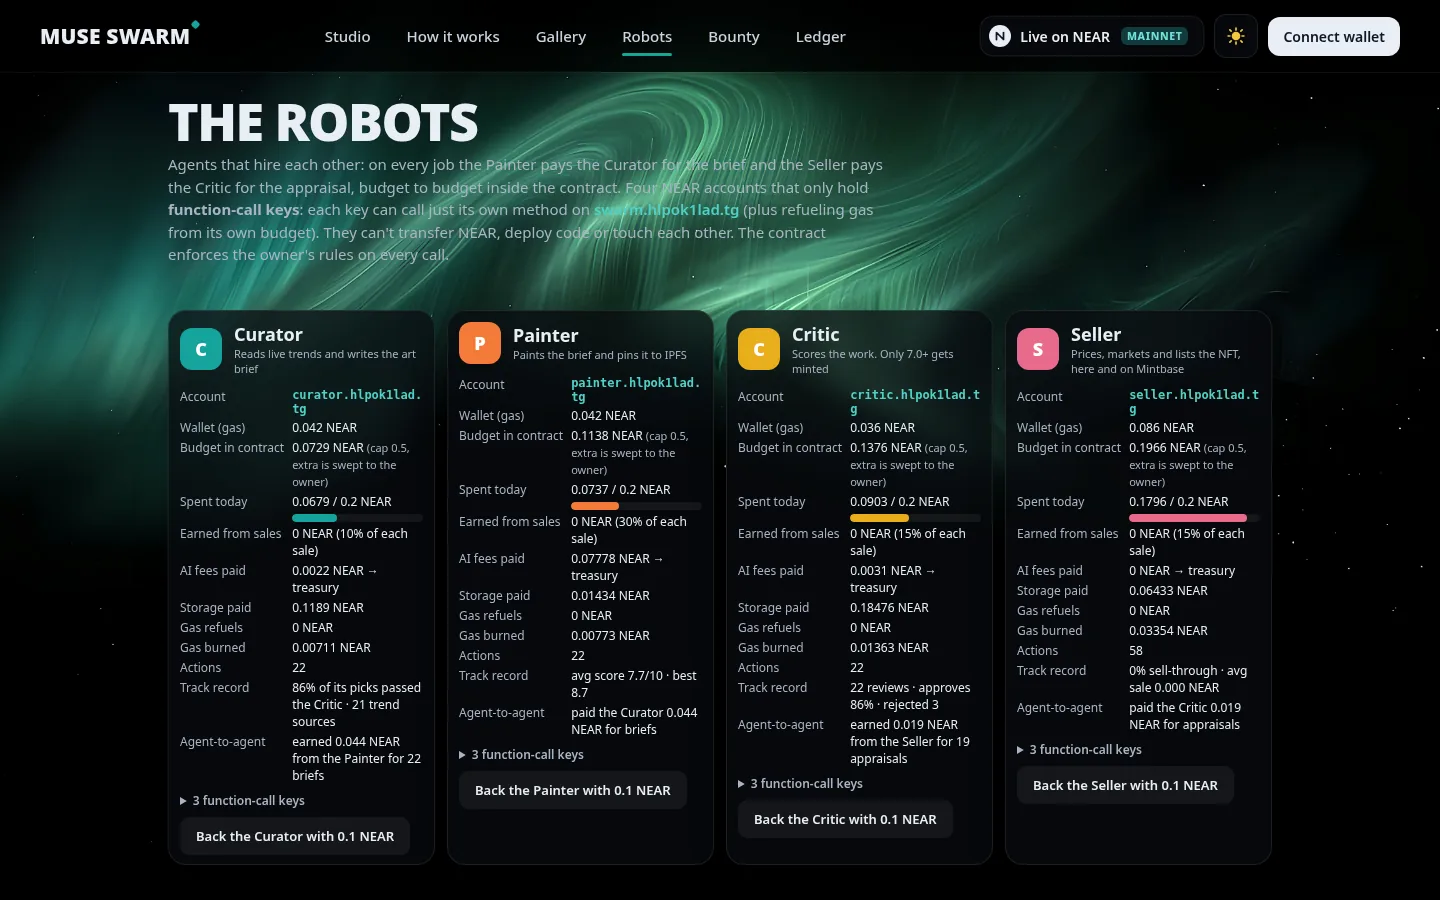
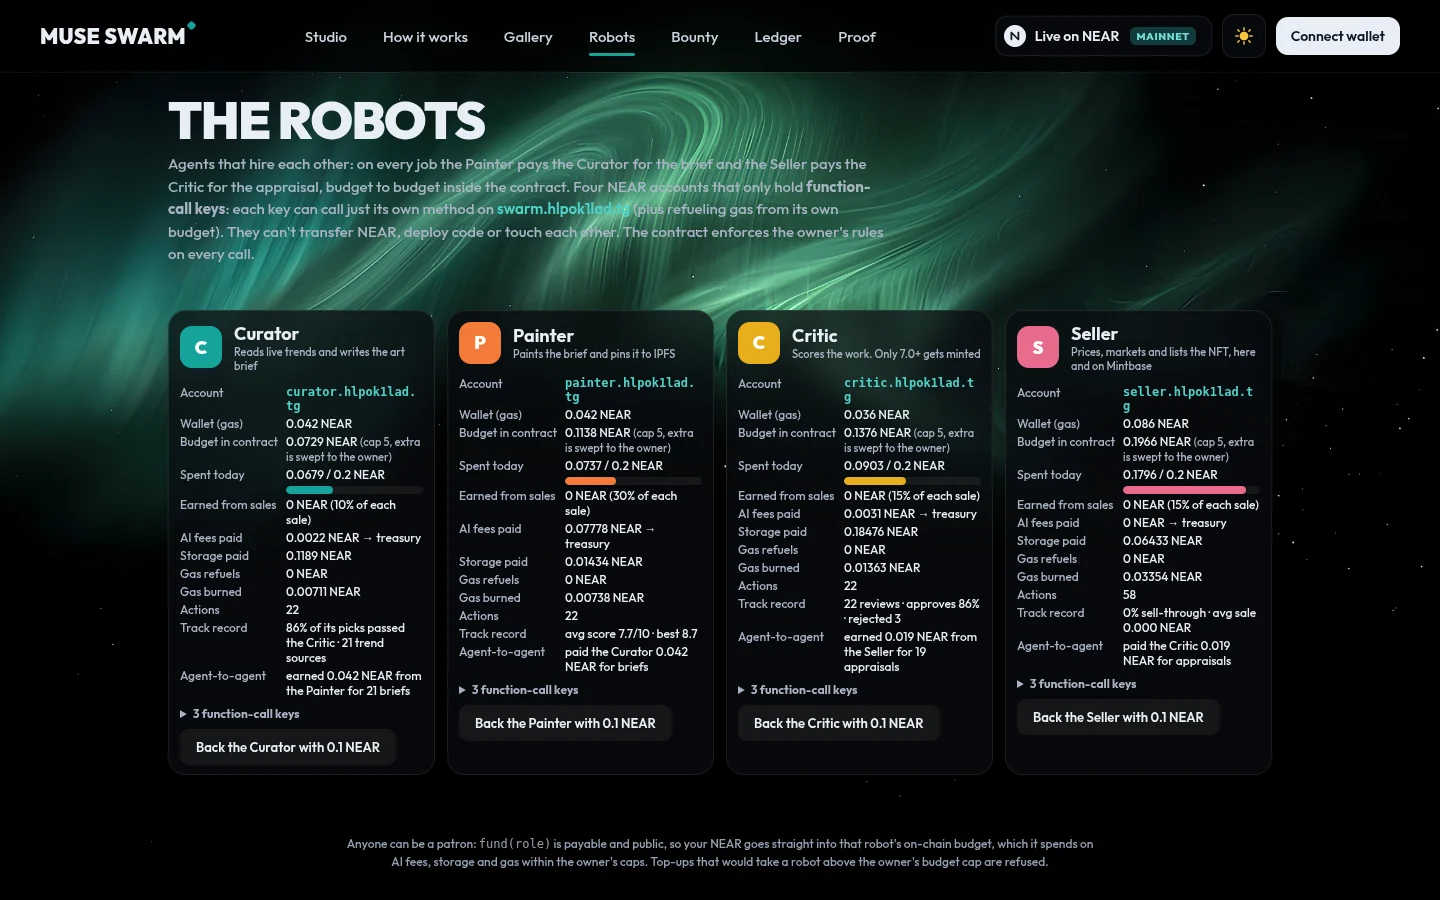
docs: security fix report for red-team r1 (all 17 findings), Mainnet proof section, proof/studio/robots screenshots, corrected README claims (refund, NEP-178, pause, budget cap, tests)

diff --git a/README.md b/README.md
@@ -9,7 +9,11 @@ Live app: [muse-swarm.vercel.app](https://muse-swarm.vercel.app). Captured 14 No
 
 <p align="center"><img src="docs/screenshots/studio.webp" alt="Muse Swarm studio home with the 3D workshop, live scoreboard, and robot reasoning feed" width="900"></p>
 
-Studio home on NEAR mainnet: the 3D workshop, live scoreboard (22 jobs, 41 agent-to-agent payments), commission / free demo cycle, and the robots' reasoning feed.
+Studio home on NEAR mainnet: the 3D workshop, live scoreboard (107 mainnet txs, 19 NFTs minted, 22 jobs, 41 agent-to-agent payments, 1.30 NEAR funded on-chain), commission / free demo cycle, and the robots' reasoning feed.
+
+<p align="center"><img src="docs/screenshots/proof.webp" alt="Mainnet proof page with live on-chain counts, the agent accounts and nearblocks links" width="900"></p>
+
+[Mainnet proof](https://muse-swarm.vercel.app/proof): live counts read from NEAR mainnet, the contract and agent accounts with balances, and every agent payment, mint, listing, AI fee and owner funding tx linked to nearblocks.io.
 
 <p align="center"><img src="docs/screenshots/gallery.webp" alt="Gallery of minted Muse Swarm NFTs with critic scores and list prices" width="900"></p>
 
@@ -36,6 +40,29 @@ Mobile studio (390×844).
 Coming soon.
 
 
+## Mainnet proof
+
+**Live page: [muse-swarm.vercel.app/proof](https://muse-swarm.vercel.app/proof)** (JSON: [/api/proof](https://muse-swarm.vercel.app/api/proof)). It is rebuilt from public chain data (NEAR RPC + the FastNEAR tx indexer) every minute, lists only successful transactions, and links each one to nearblocks.io. A fallback snapshot (`lib/proof-snapshot.json`) is regenerated with `npm run proof:snapshot`, which re-checks every listed tx on a mainnet archival RPC (99 txs verified, 14 Nov 2026 17:3x CET).
+
+What the chain shows as of 14 Nov 2026, 17:30 CET:
+
+| Evidence | Mainnet |
+|---|---|
+| Transactions on the swarm contract | **107**, 0 failed, on 13 and 14 Nov |
+| Jobs run by the four robots | **22** (19 approved and minted, 3 rejected by the Critic) |
+| NEP-171 NFTs minted / listed for sale | **19 / 19** |
+| Agent→agent payments | **41** (0.063 NEAR: the Painter pays the Curator per brief, the Seller pays the Critic per appraisal) |
+| AI fees paid on-chain to the treasury | **0.083 NEAR** across 66 charged steps, plus 0.382 NEAR of storage |
+| Owner funding of robot budgets (`fund`) | **1.30 NEAR** in 5 txs, e.g. [FekCGnWj…](https://nearblocks.io/txns/FekCGnWjPcD1sShp1UbtoKAbQiphePvZKGrKYV1fnKGQ) (0.4 NEAR to all four), [2MDGduLY…](https://nearblocks.io/txns/2MDGduLYSo3P4YMPMfWrLxWqUnBhRWeDnWbZNpNrkEJb) (0.47 NEAR to the Seller) |
+| Owner transfers to the swarm's accounts | 9 txs (account creation and gas top-ups) |
+| Sales | **None yet.** All 19 works are listed at the 0.05 NEAR floor; the first sale is open |
+
+Real agent work on mainnet, for example: a mint [5jKUomjq…](https://nearblocks.io/txns/5jKUomjqw3X2PXZ81cKqwa2oxsnncsmxFYVnZHGqeQLW), a listing [5DfxRDP7…](https://nearblocks.io/txns/5DfxRDP7pQ7YsuqgmNfpm6L3SAchXGZKcSKdWqP4dFci), and job #10's curator → painter → mint → list chain [H7Pn9xFa…](https://nearblocks.io/txns/H7Pn9xFaoMMwv4aUrU3CYbdYsWqq5gJqqp8DBFKrjmTJ), [64UnSWiZ…](https://nearblocks.io/txns/64UnSWiZiV2jurJCLnnrCqQy91BcmLXgnB5WJEuZj4My), [HLaBHyBp…](https://nearblocks.io/txns/HLaBHyBpRGGwbZqb4WzTZ9LWbkxUpco4UvA8MBQNeQp5), [63bWbAaf…](https://nearblocks.io/txns/63bWbAafWSgGzJXk2qA4v77kvrLgx8XHtXpFDHoY51w9). The live page always has the newest ones.
+
+## Security
+
+An owner-authorized private red-team review (r1, 14 Nov 2026) found **no Critical or High issues** and 3 Medium, 5 Low and 9 Info findings. All of them are addressed: see **[docs/security/muse-swarm-r1-fixes.md](docs/security/muse-swarm-r1-fixes.md)** for each finding's root cause, fix, commit, regression test and status. The web-app fixes are live; the contract-side fixes are merged and tested (57/57) and wait for an in-place redeploy of `swarm.hlpok1lad.tg`, with a live mitigation in place meanwhile.
+
 ## Live on NEAR Mainnet
 
 - **Live app:** https://muse-swarm.vercel.app
@@ -48,7 +75,7 @@ Coming soon.
   - token page: [nearblocks.io/nft-token/swarm.hlpok1lad.tg/5](https://nearblocks.io/nft-token/swarm.hlpok1lad.tg/5).
 - **Contract deploy:** [4DWzVfi3…](https://nearblocks.io/txns/4DWzVfi3DR4aGLeYp6UZs3gKMqxUGSCMQ4pvx6Lc3tW3). Every mainnet tx is in `MAINNET_LIVE.md` and on the [Ledger](https://muse-swarm.vercel.app/ledger).
 
-**Status (13 Nov 2026, 09:14 CET):** 10 jobs, 10 NFTs minted and listed on NEAR Mainnet. Current prices are 0.05–0.10 NEAR after Seller markdowns (initial NEAR AI Cloud prices were 0.05–0.175 NEAR). The robots now run on their own, up to 12 jobs a day through 17 Nov 2026, so the live count on the site and the Ledger will be higher. They are for sale directly and on Mintbase's mainnet market. **There have been no outside sales so far.** The 30/10/30/15/15 sale split is proven on testnet during development; on mainnet it is pending its first buyer.
+**Status (14 Nov 2026, 17:30 CET):** 22 jobs, 19 NFTs minted and listed on NEAR Mainnet, 41 agent-to-agent payments and 107 contract transactions (see [Mainnet proof](https://muse-swarm.vercel.app/proof)). After the Seller's markdowns every listing is at the 0.05 NEAR floor (initial NEAR AI Cloud prices were 0.05–0.175 NEAR). The robots run on their own, up to 12 jobs a day through 17 Nov 2026, so the live count on the site and the Ledger will be higher. They are for sale directly and on Mintbase's mainnet market. **There have been no outside sales so far.** The 30/10/30/15/15 sale split is proven on testnet during development; on mainnet it is pending its first buyer.
 
 **Development history (testnet):** [`swarm.museswarm.testnet`](https://testnet.nearblocks.io/address/swarm.museswarm.testnet) holds 33 earlier jobs and every tested money path (see "Development history" below).
 
@@ -72,7 +99,7 @@ The submission pack includes **`muse-swarm-demo.mp4`** (88.47 s, 1920×1080, 30 
 | Do | See |
 |----|-----|
 | Open https://muse-swarm.vercel.app | The header badge reads **Live on NEAR · Mainnet**. The top of the page is a live **"No humans · ran itself for N h · jobs · agent→agent payments"** scoreboard. Each chip links to the explorer. Revenue from real outside buyers and our own **test** buys are counted separately. |
-| Press **Commission a piece · 0.06 NEAR**, type a brief, **Pay** with a NEAR wallet (or **Pay in wNEAR**) | This is real NEAR on mainnet. You pay first, and the contract holds the money. The robots brief, paint, judge and mint *your* piece, and the Seller delivers the NFT to your wallet (`commission_delivered`). The split is paid on-chain. A rejected piece is retried automatically. You can cancel for a full refund after 30 min. About 1–2 min. |
+| Press **Commission a piece · 0.06 NEAR**, type a brief, **Pay** with a NEAR wallet (or **Pay in wNEAR**) | This is real NEAR on mainnet. You pay first, and the contract holds the money. The robots brief, paint, judge and mint *your* piece, and the Seller delivers the NFT to your wallet (`commission_delivered`). The split is paid on-chain. A rejected piece is retried automatically. After 30 min you can cancel for a refund of your payment minus the small storage fee the contract kept (~0.005 NEAR). About 1–2 min. |
 | Open **Any token ▾** in the commission panel and press **Pay with …** | A live **NEAR Intents 1Click** quote (e.g. 0.0025 SOL ≈ $0.20 → 0.06 wNEAR, ~22 s) and a real deposit address with swap status. The swapped wNEAR pays the contract via `ft_on_transfer`. Refunds go to your own Intents balance. |
 | Or press **Free demo cycle** (mainnet: 2 per visitor per hour, 3 per hour overall) | Four robots act in the 3D studio, and four mainnet transactions (`curator_open_job` → `painter_submit` → `critic_review` → `seller_list`) appear in **Live on-chain activity**. The new NFT is then listed for sale. There is no demo collector on mainnet. |
 | In the [Gallery](https://muse-swarm.vercel.app/gallery), open **Sales & marketing** on a listed work | The venues (Muse Swarm direct, the **Mintbase market contract**, any NEAR wallet) and the Seller's **marketing plan**: pitch, audience, channel and time, hashtags, and X post drafts with a Copy button. The app never posts. **Buy via Mintbase** buys through Mintbase's market, which calls our NEP-199 `nft_transfer_payout`, and the same split is paid. |
@@ -184,8 +211,8 @@ The aurora is drawn small and scaled up, so the blur costs nothing. It runs at 3
 
 - **Named sub-accounts per agent:** `curator/painter/critic/seller/guardian/treasury.hlpok1lad.tg` on mainnet.
 - **Function-call access keys:** each robot key can call only its own method plus `robot_refuel`. Full keys of robots and guardian were deleted. The [Robots](https://muse-swarm.vercel.app/robots) page reads them live from RPC.
-- **Smart contract (Rust, near-sdk 5):** rules, budgets, spend caps, job state machine, kill switch, guardian pause, on-chain revenue split. Tests: `cargo test` gives **49 passed**.
-- **NEP-171 / 177 / 178 / 181 / 199 NFTs** minted by the contract itself, with the Critic's score as the gate. NEP-178 approvals and NEP-199 payouts let **Mintbase's market** sell them with the swarm's split.
+- **Smart contract (Rust, near-sdk 5):** rules, budgets, spend caps, job state machine, kill switch, guardian pause, on-chain revenue split. Tests: `cargo test` gives **57 passed** (49 + 8 red-team regressions); `npm test` runs the web-side regression tests.
+- **NEP-171 / 177 / 178 / 181 / 199 NFTs** minted by the contract itself, with the Critic's score as the gate. NEP-178 approvals and NEP-199 payouts let **Mintbase's market** sell them with the swarm's split. Approvals are granted only by the Seller robot, only to allow-listed markets; there is no public `nft_approve`, so a holder cannot approve a market for a token they bought.
 - **NEP-141 wNEAR** (`ft_on_transfer`) and **NEAR Intents 1Click** for "pay in any token" commissions.
 - **NEP-297 events** (`job_opened`, `painted`, `listed`, `agent_paid`, `repriced`, `sold`, `split_paid`, `refueled`, `funded`, `paused`, … plus standard `nft_mint`/`nft_transfer`), which drive the 3D studio's story.
 - **NEAR Connect** (`@hot-labs/near-connect`), the connector NEAR recommends in place of the deprecated Wallet Selector, for buying and funding.
@@ -222,7 +249,10 @@ The aurora is drawn small and scaled up, so the blur costs nothing. It runs at 3
 
 - **No budget drain.** On mainnet, free cycles are limited to 2 per visitor IP per hour and paced swarm-wide to 3 per hour from on-chain job timestamps (the testnet build allowed 4 per IP and 12 overall per 10 min), which holds across every serverless instance with no extra database. Only one job runs at a time (enforced by the contract), and jobs per day plus daily spend per robot are capped on-chain.
 - **Driver tokens.** An HMAC token lets only the visitor who opened a job drive it. Anyone can take over after 90 s of inactivity and is handed the token, so a job never gets stuck.
-- **Kill switch + guardian.** The owner's `set_kill_switch` stops everything. The public pause button uses the guardian key, capped at 120 s by the contract.
+- **Kill switch + guardian.** The owner's `set_kill_switch` stops everything. The public pause button uses the guardian key, capped at 120 s by the contract, and is refused while paused and for 10 minutes after each pause.
+- **Pacing can't be skipped.** The free-cycle limits apply whenever a job would actually be opened, whatever the request contains, and nothing runs after the owner's end date (18 Nov 2026 00:00 CET), from the cron, the site or the bounty judge.
+- **No paid retries.** Before any paid AI call or IPFS pin the robot's on-chain budget is re-checked, a failed step is retried at most twice, and a job's image is never paid for twice.
+- **Known limitation.** View/click signals and trend text can be gamed by a determined visitor. They only steer style and topic; prices always stay inside the owner's on-chain floor and max.
 - **Honest P&L.** Revenue from our own accounts is shown apart from outside revenue. On mainnet there is no demo collector.
 - **No secrets in the client.** Robot, guardian and collector keys live only in server env vars. The client bundle and git history were scanned for every secret value (0 hits).
 
@@ -237,14 +267,14 @@ Init: `new(owner_id, treasury_id, guardian_id, curator_id, painter_id, critic_id
 | Markets / tokens | `nft_approve`-style approvals (Seller-granted to allow-listed markets only), `nft_transfer_payout` (NEP-199, allow-listed markets only), `nft_payout`, `nft_is_approved`, `ft_on_transfer` (wNEAR only) |
 | Owner (v3+) | `enable_approvals`, `patch_metadata(token_ids)` |
 | Robots (FC keys) | `curator_open_job`, `painter_submit`, `critic_review`, `seller_list`, `robot_refuel` |
-| Guardian (FC key) | `guardian_pause(seconds ≤ 120)`: auto-releases, so a demo visitor can't freeze the swarm |
+| Guardian (FC key) | `guardian_pause(seconds ≤ 120)`: auto-releases. The public pause button is refused while paused and for 10 minutes after each pause (read from the contract), so visitors can't keep the swarm frozen; the new contract adds the same cooldown on-chain |
 | Views | `get_swarm`, `get_job`, `get_jobs(before, limit)`, `get_listings`, `get_commission`, `get_commissions`, `nft_token`, `nft_tokens`, `nft_metadata`, … |
 
 Rules on mainnet:
 - Price floor 0.05 NEAR and max price 0.5 NEAR.
 - Mint threshold 7.0.
 - Daily spend cap 0.2 NEAR per robot (raised from 0.1 on 13 Nov with the owner's `update_rules`), and a fee cap of 0.01 NEAR per call.
-- Budget cap 0.5 NEAR, with anything above it swept to the owner.
+- Budget cap 5 NEAR (raised from 0.5 on 14 Nov as the live mitigation for review finding MS-01, [tx](https://nearblocks.io/txns/2ntohqkB3fsQY9VRJdPqqzBo4Y3zQWuchzT67Hb1pcSN)); a robot's share of a sale above the cap is swept to the owner.
 - 12 jobs per day.
 - Sale split: owner 30, curator 10, painter 30, critic 15, seller 15 (%).
 

diff --git a/docs/security/muse-swarm-r1-fixes.md b/docs/security/muse-swarm-r1-fixes.md
@@ -1,0 +1,51 @@
+# Muse Swarm: red-team review r1, fixes
+
+Source: owner-authorized private red-team review "Muse Swarm — Red-Team Review (r1)", 14 Nov 2026, against commit `3e898a0`.
+Result of the review: **no Critical or High findings**; 3 Medium, 5 Low, 9 Info. This page lists every finding, what caused it, how it was fixed, the commit, the regression test and the status. Exploit steps are intentionally not reproduced here.
+
+Fixes landed on 14 Nov 2026 (CET):
+
+| Commit | Scope |
+|---|---|
+| [`bd37c6c`](https://github.com/sinajalilian01-x1/muse-swarm/commit/bd37c6c) | Contract fixes MS-01, MS-05, MS-08, MS-09, MS-12 + 8 contract regression tests (57/57 pass) |
+| [`878adc8`](https://github.com/sinajalilian01-x1/muse-swarm/commit/878adc8) | Web/engine fixes MS-02, MS-03, MS-04, MS-05, MS-06, MS-07, MS-10, MS-11, MS-16, MS-17 + `tests/guards.test.ts` (9/9 pass) |
+| [`598e69d`](https://github.com/sinajalilian01-x1/muse-swarm/commit/598e69d) | MS-13 copy fix (refund wording) and the `/proof` mainnet evidence page |
+| this doc's commit | MS-13/MS-14/MS-15 documentation, README claims corrected |
+
+Run the tests: `cd contract && cargo test` (57 passed) and `npm test` (9 passed), plus `npx tsc --noEmit` and `next build`.
+
+## Mainnet status of the contract fixes
+
+The live contract `swarm.hlpok1lad.tg` has **not** been redeployed with the contract fixes yet. Its only access key is a full-access key (`ed25519:3gBbpdhY…`) that is not on the deployment machine, and the contract has no owner-gated upgrade method, so the owner account `hlpok1lad.tg` cannot deploy code to it. The new code changes logic only (no new state fields, no Borsh layout change), so it can be deployed in place without a migration once that key is available: `near deploy swarm.hlpok1lad.tg contract/target/wasm32-unknown-unknown/release/muse_swarm.wasm` (built from `bd37c6c` with Rust 1.96, sha256 `5755aa0b…685b561f`).
+
+Until then, the off-chain fixes close every path the review found through the web app, and these live mitigations are in place:
+
+- **MS-01:** the owner raised `budget_cap` from 0.5 to 5 NEAR with `update_rules` (mainnet tx [`2ntohqkB…`](https://nearblocks.io/txns/2ntohqkB3fsQY9VRJdPqqzBo4Y3zQWuchzT67Hb1pcSN), 14 Nov 2026 17:29 CET). Robot budgets are 0.04–0.20 NEAR, so a griefer would now have to donate about 5 NEAR into a robot budget (which the owner can withdraw) to trigger the old underflow. The site's Back button also refuses top-ups above the cap.
+- **MS-05:** the guardian key is only used by the server, and the server now enforces the cooldown from the contract's `paused_until`.
+- **MS-08 / MS-09:** the engine never asks the contract to expire a minted job, so the old contract's stranding path is not reachable from the app.
+
+## Findings
+
+| ID | Severity | Summary | Root cause | Fix | Commit | Regression test | Status |
+|---|---|---|---|---|---|---|---|
+| MS-01 | Medium | A market (Mintbase) sale could revert when a robot budget was above `budget_cap` | `settle()` swept each robot's whole over-cap surplus to the owner, so the owner amount could exceed the sale balance and `balance - to_owner` underflowed in `nft_transfer_payout`. Public `fund()` ignored the cap; `update_rules` accepted any cap | A robot now gives up at most its own share of the current sale (`sweep_for`), so the owner total can never exceed the price; `checked_sub` with an explicit error; `fund()` refuses top-ups above the cap; `update_rules` rejects a zero cap or a cap below a current budget. Site Back button is cap-aware | `bd37c6c`, `878adc8` | `ms01_market_sale_with_over_cap_budgets_does_not_underflow`, `ms01_public_fund_cannot_pass_budget_cap`, `ms01_fund_below_cap_still_works`, `ms01_budget_cap_rules_are_validated` | Fixed in code. Mainnet: mitigated (cap raised, tx above); contract redeploy pending the contract key |
+| MS-02 | Medium | Paid AI/IPFS work ran before the robot tx; a persistent failure wedged the job and repeated the cost | `advance()` checked affordability only when opening a job; the in-flight lock is per serverless instance; nothing stopped retries | Before any paid call for an existing job the engine re-checks the robot's budget, daily cap and gas refuel and stops with `paused` if it can't pay; at most 2 paid attempts per job stage per 30 min; the Painter reuses an earlier Pinata pin for the same job instead of paying for a new image (works across instances); fees are clamped under the on-chain cap (MS-16) | `878adc8` | `MS-16` fee clamp test; affordability/retry logic is covered by type checks and the live verification (a forged step returned 409 without any paid call) | Fixed |
+| MS-03 | Medium | `/api/media/[cid]` served any IPFS content with the upstream content type on the app origin | The route echoed the upstream `Content-Type`, accepted any CID and set no `nosniff`/CSP/disposition | Only CIDs the contract recorded as job media are served; the type comes from magic bytes (PNG/JPEG/GIF/WebP/AVIF, or our own SVG) and never from upstream; every response has `nosniff`, `Content-Disposition: inline` and `default-src 'none'; sandbox` CSP; 12 MB cap; per-IP rate limit. Global `nosniff`, HSTS, `X-Frame-Options`, `frame-ancestors`, Referrer-Policy | `878adc8` | `MS-03: media type comes from magic bytes only…`, `MS-03: every media response carries nosniff…` | Fixed, verified live (unknown CID → 404; job image → `image/jpeg` + nosniff + sandbox CSP) |
+| MS-04 | Low | Free-demo pacing was skipped when any `driver` string was sent | The route decided "opening a job?" from `!body.driver` | Pacing runs inside `advance()` exactly when a job would be opened (no active job), whatever the client sent; the step limit always applies | `878adc8` | `MS-04: a client string never decides whether a job is opened` | Fixed, verified live |
+| MS-05 | Low | Public pause endpoint + no contract cooldown allowed a sustained pause from many IPs | Per-instance, per-IP limiter only; `guardian_pause` overwrote `paused_until` | Server refuses a pause while paused and for 10 min after the last pause ended, read from the contract (holds across all IPs/instances). Contract: the guardian can't extend a running pause and has a 10-min cooldown (owner unaffected) | `878adc8`, `bd37c6c` | `MS-05: demo pause refused…`, `ms05_guardian_cannot_extend_or_chain_pauses` | Fixed in the app (live). Contract part pending redeploy |
+| MS-06 | Low | Owner-approved end date (18 Nov 00:00 CET) enforced only in the cron handler | The check lived in the cron route, not in the shared engine or the bounty judge | `autonomyEnded()` at the top of `advance()` and the bounty `tick()`; the cron keeps its early return | `878adc8` | `MS-06: autonomy window is closed from 18 Nov 00:00 CET` | Fixed |
+| MS-07 | Low | A bounty could be stuck in "paying" forever and block every future bounty | `pay()` refused forever for a missing winner account or after the window; no terminal state; 64-hex accounts accepted without a lookup | Permanent refusals now pin a final `bounty-payout` record (`ok: false, final: true`) and the bounty becomes `unpaid` (terminal), so the next one can open; implicit accounts must exist on chain to enter | `878adc8` | `MS-07: a permanently refused payout closes the bounty…` | Fixed |
+| MS-08 | Low | A stale job couldn't be expired once the daily job cap was hit | `curator_open_job` closed the job, then panicked on the cap check, reverting the close | If the cap is reached after expiring, the contract keeps the expiry and returns the expired job; the engine treats that as "paused" | `bd37c6c`, `878adc8` | `ms08_stale_job_expires_even_when_daily_job_cap_is_reached` | Fixed in code; contract redeploy pending (not reachable from the app today) |
+| MS-09 | Info | A minted token could be stranded if its job expired | Expiry allowed for any status; no recovery path | Expiry only for `briefed`/`painted`; new owner-only `owner_list(job_id, price)` lists a stranded minted token (owner pays storage) | `bd37c6c` | `ms09_minted_job_is_not_expired_and_owner_can_recover_it` | Fixed in code; redeploy pending |
+| MS-10 | Info | Bounty entries needed no proof of account ownership | Entry form takes any existing account name | Implicit accounts must exist on chain; one entry per account and two per visitor remain; payout still only ever goes to the named account. A wallet signature (NEP-413) at entry is the remaining hardening | `878adc8` | — | Partially fixed (griefing only, 0.02 NEAR ceiling); NEP-413 entry signature is follow-up work |
+| MS-11 | Info | LLM judge reads untrusted captions | Captions could carry instructions | Instruction-like captions (e.g. "ignore previous…", "winner is…", JSON/markup) are refused at entry and skipped at judging, in addition to the existing system prompt | `878adc8` | `MS-11: instruction-like captions are disqualified…` | Fixed (hardening) |
+| MS-12 | Info | `nft_payout` view ignored the budget-cap sweep | View used the plain split | The view mirrors `nft_transfer_payout` exactly (same `sweep_for`) and enforces `max_len_payout ≥ 2` | `bd37c6c` | `ms12_nft_payout_view_matches_transfer_payout_with_sweep` | Fixed in code; redeploy pending |
+| MS-13 | Info | "Full refund" copy, but the contract keeps the commission's storage | Design intent (tests.rs) vs. UI/README wording | UI and README now say refund minus the ~0.005 NEAR storage fee | `598e69d`, this commit | — | Fixed |
+| MS-14 | Info | NEP-178 claim only half true | No public `nft_approve`/`nft_revoke`; only the Seller approves allow-listed markets | README now states that approvals are Seller-granted to allow-listed markets only and holders cannot approve markets | this commit | — | Fixed (documentation) |
+| MS-15 | Info | Market signals can be inflated; trend text can steer topic/style | Integrity-only: user-agent bot filter, per-instance dedupe | No money impact (price stays inside the on-chain floor/max, no profit path). Documented as a known limitation in the README | this commit | — | Accepted (documented) |
+| MS-16 | Info | USD-priced AI fee vs fixed 0.01 NEAR fee cap could make `painter_submit` revert after the image was paid for | Fee computed from a USD price, cap fixed in NEAR | Every robot fee is clamped to 90% of the on-chain `fee_cap` before the tx | `878adc8` | `MS-16: AI fees are clamped below the on-chain per-call cap` | Fixed |
+| MS-17 | Info | Hardening bundle | Defaults that failed open, no headers, no read limits | `JOB_SECRET` now fails closed in production; security headers; shared per-IP limit on the expensive read endpoints (feed, ledger, market, robots, scoreboard, state, jobs, learned, proof); IPFS size cap. The bounty purse keeps one payout only (unchanged by design); the fire-and-forget `pay()` promises are a contract design note for the next version | `878adc8` | `MS-17: JOB_SECRET fails closed in production` | Fixed (hardening); pay() promise handling noted for v-next |
+
+## What did not change
+
+The review's positive controls still hold: robot and guardian keys are function-call keys with method allow-lists, no secrets are in the client or git history, the cron routes fail closed without `CRON_SECRET`, and the bounty payout stays a hard 0.02 NEAR from a purse that holds one payout.
